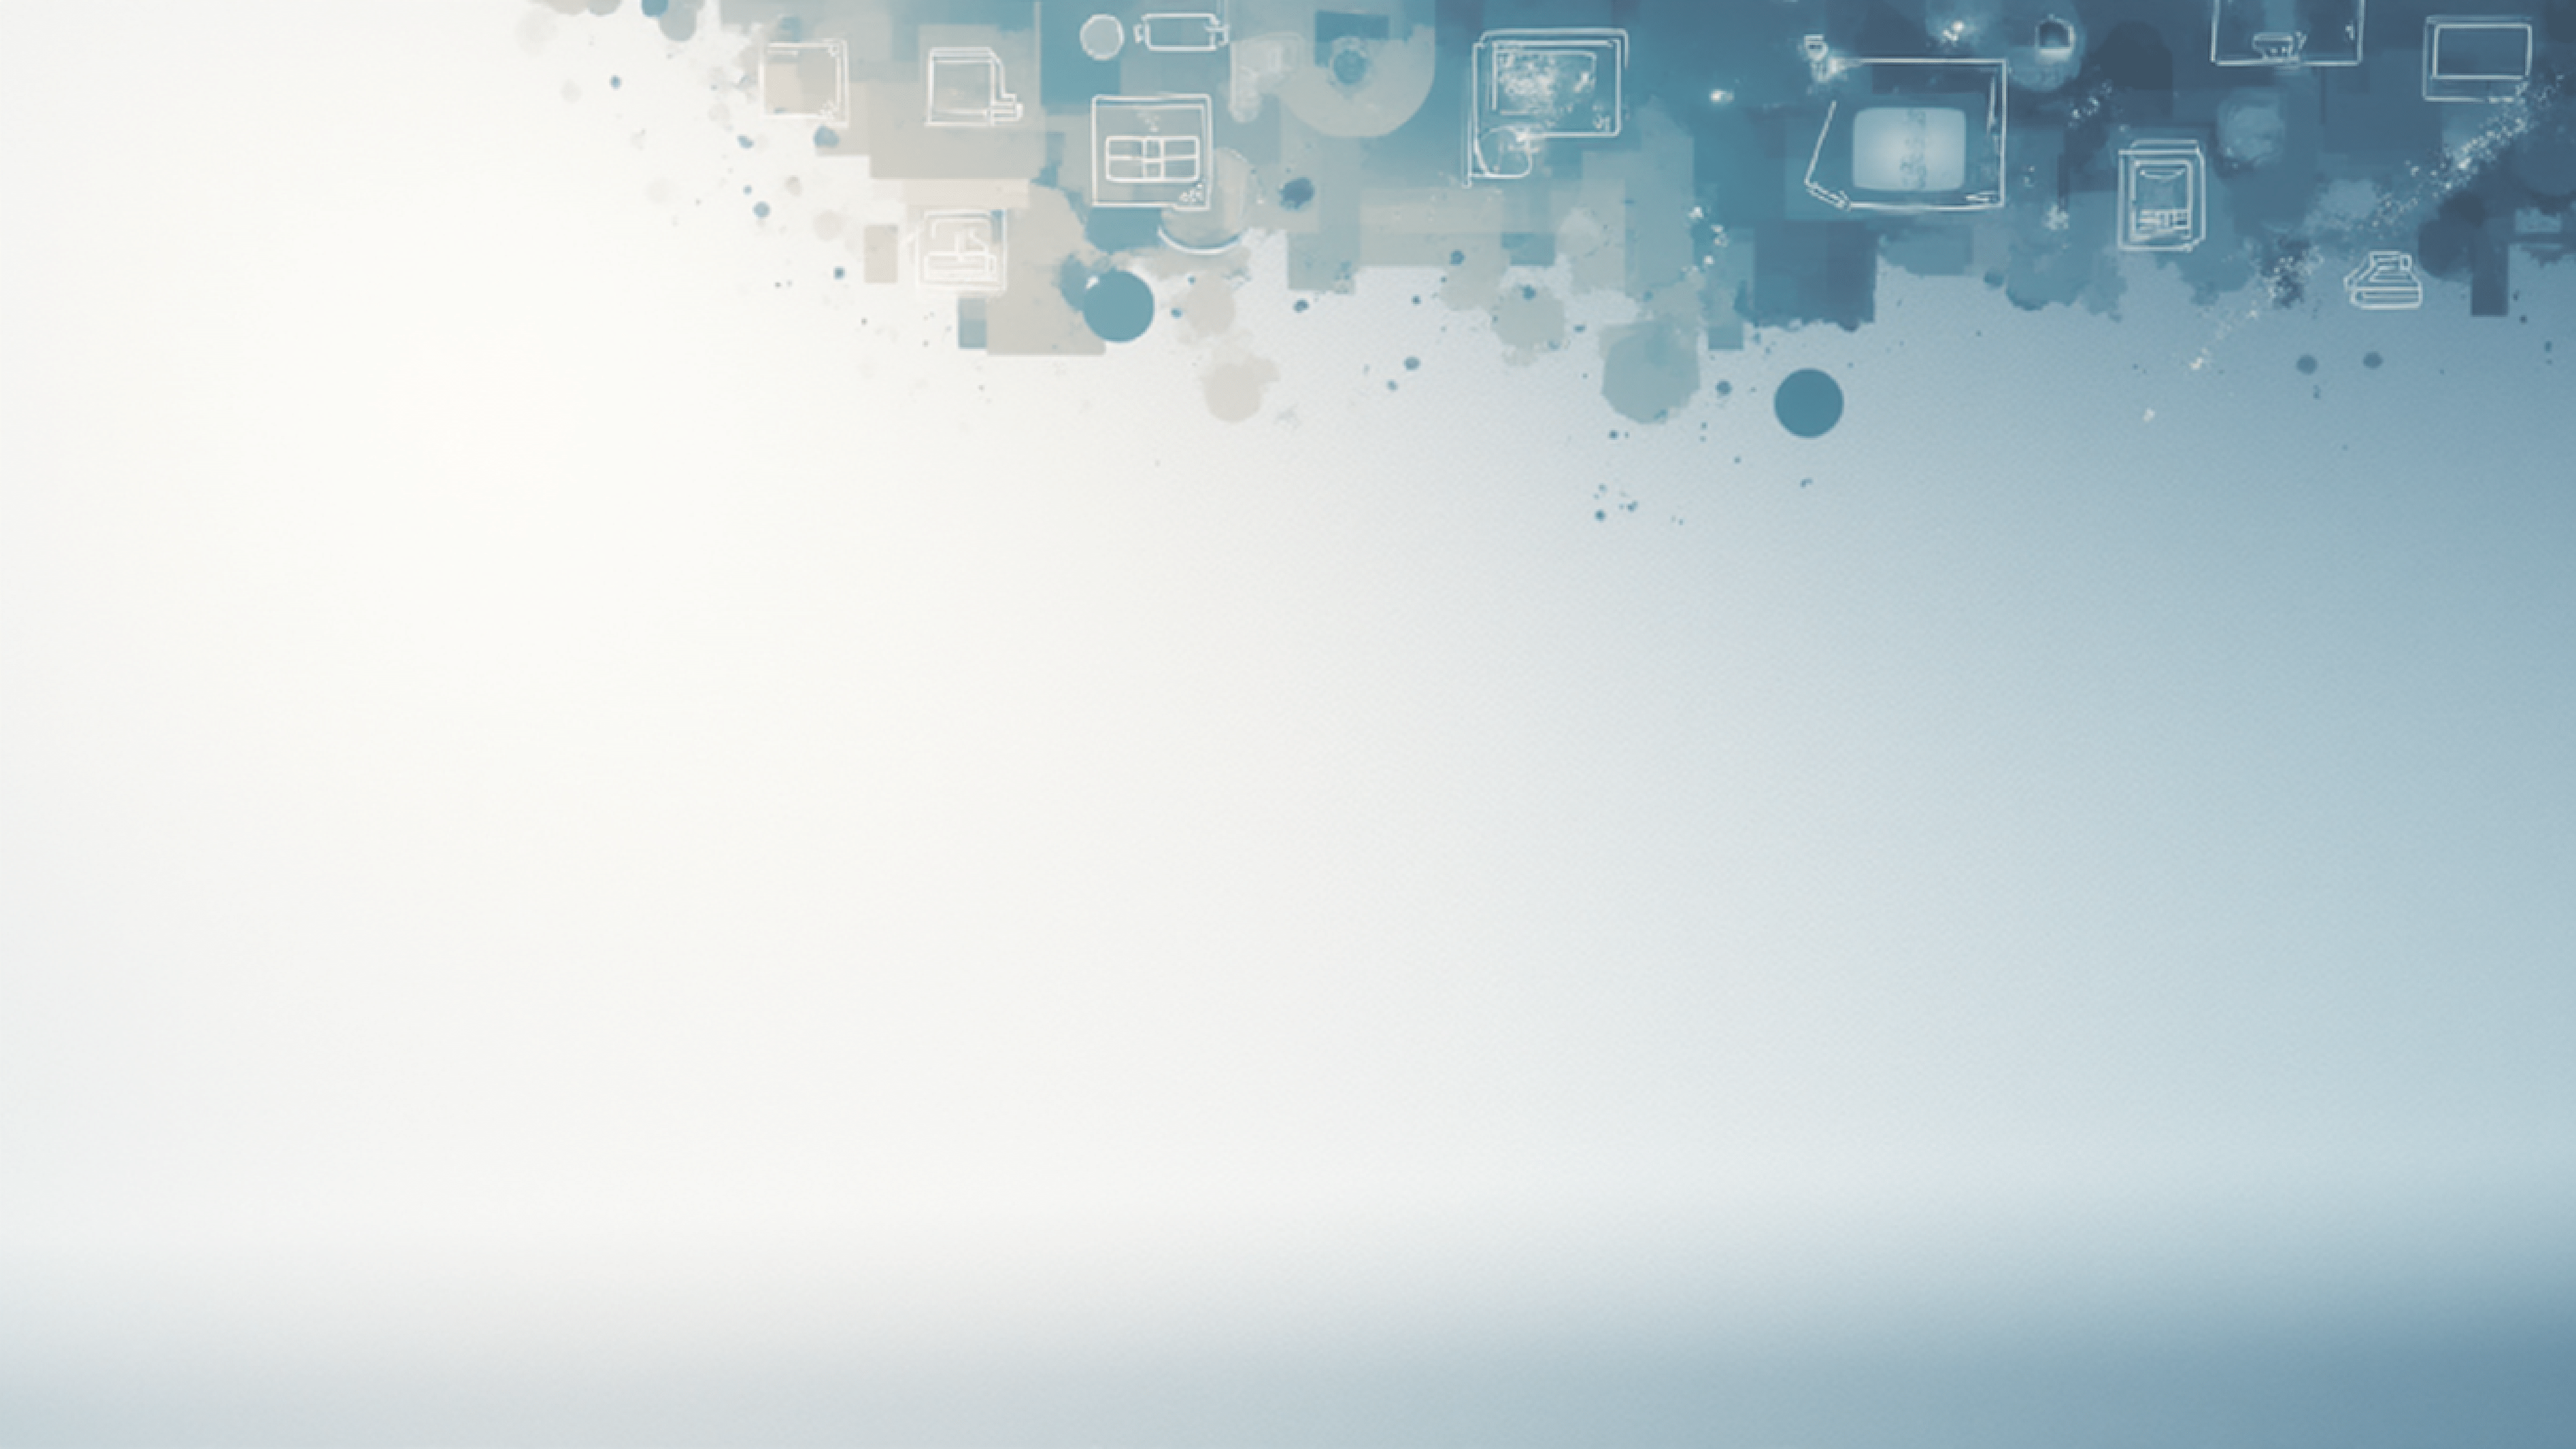
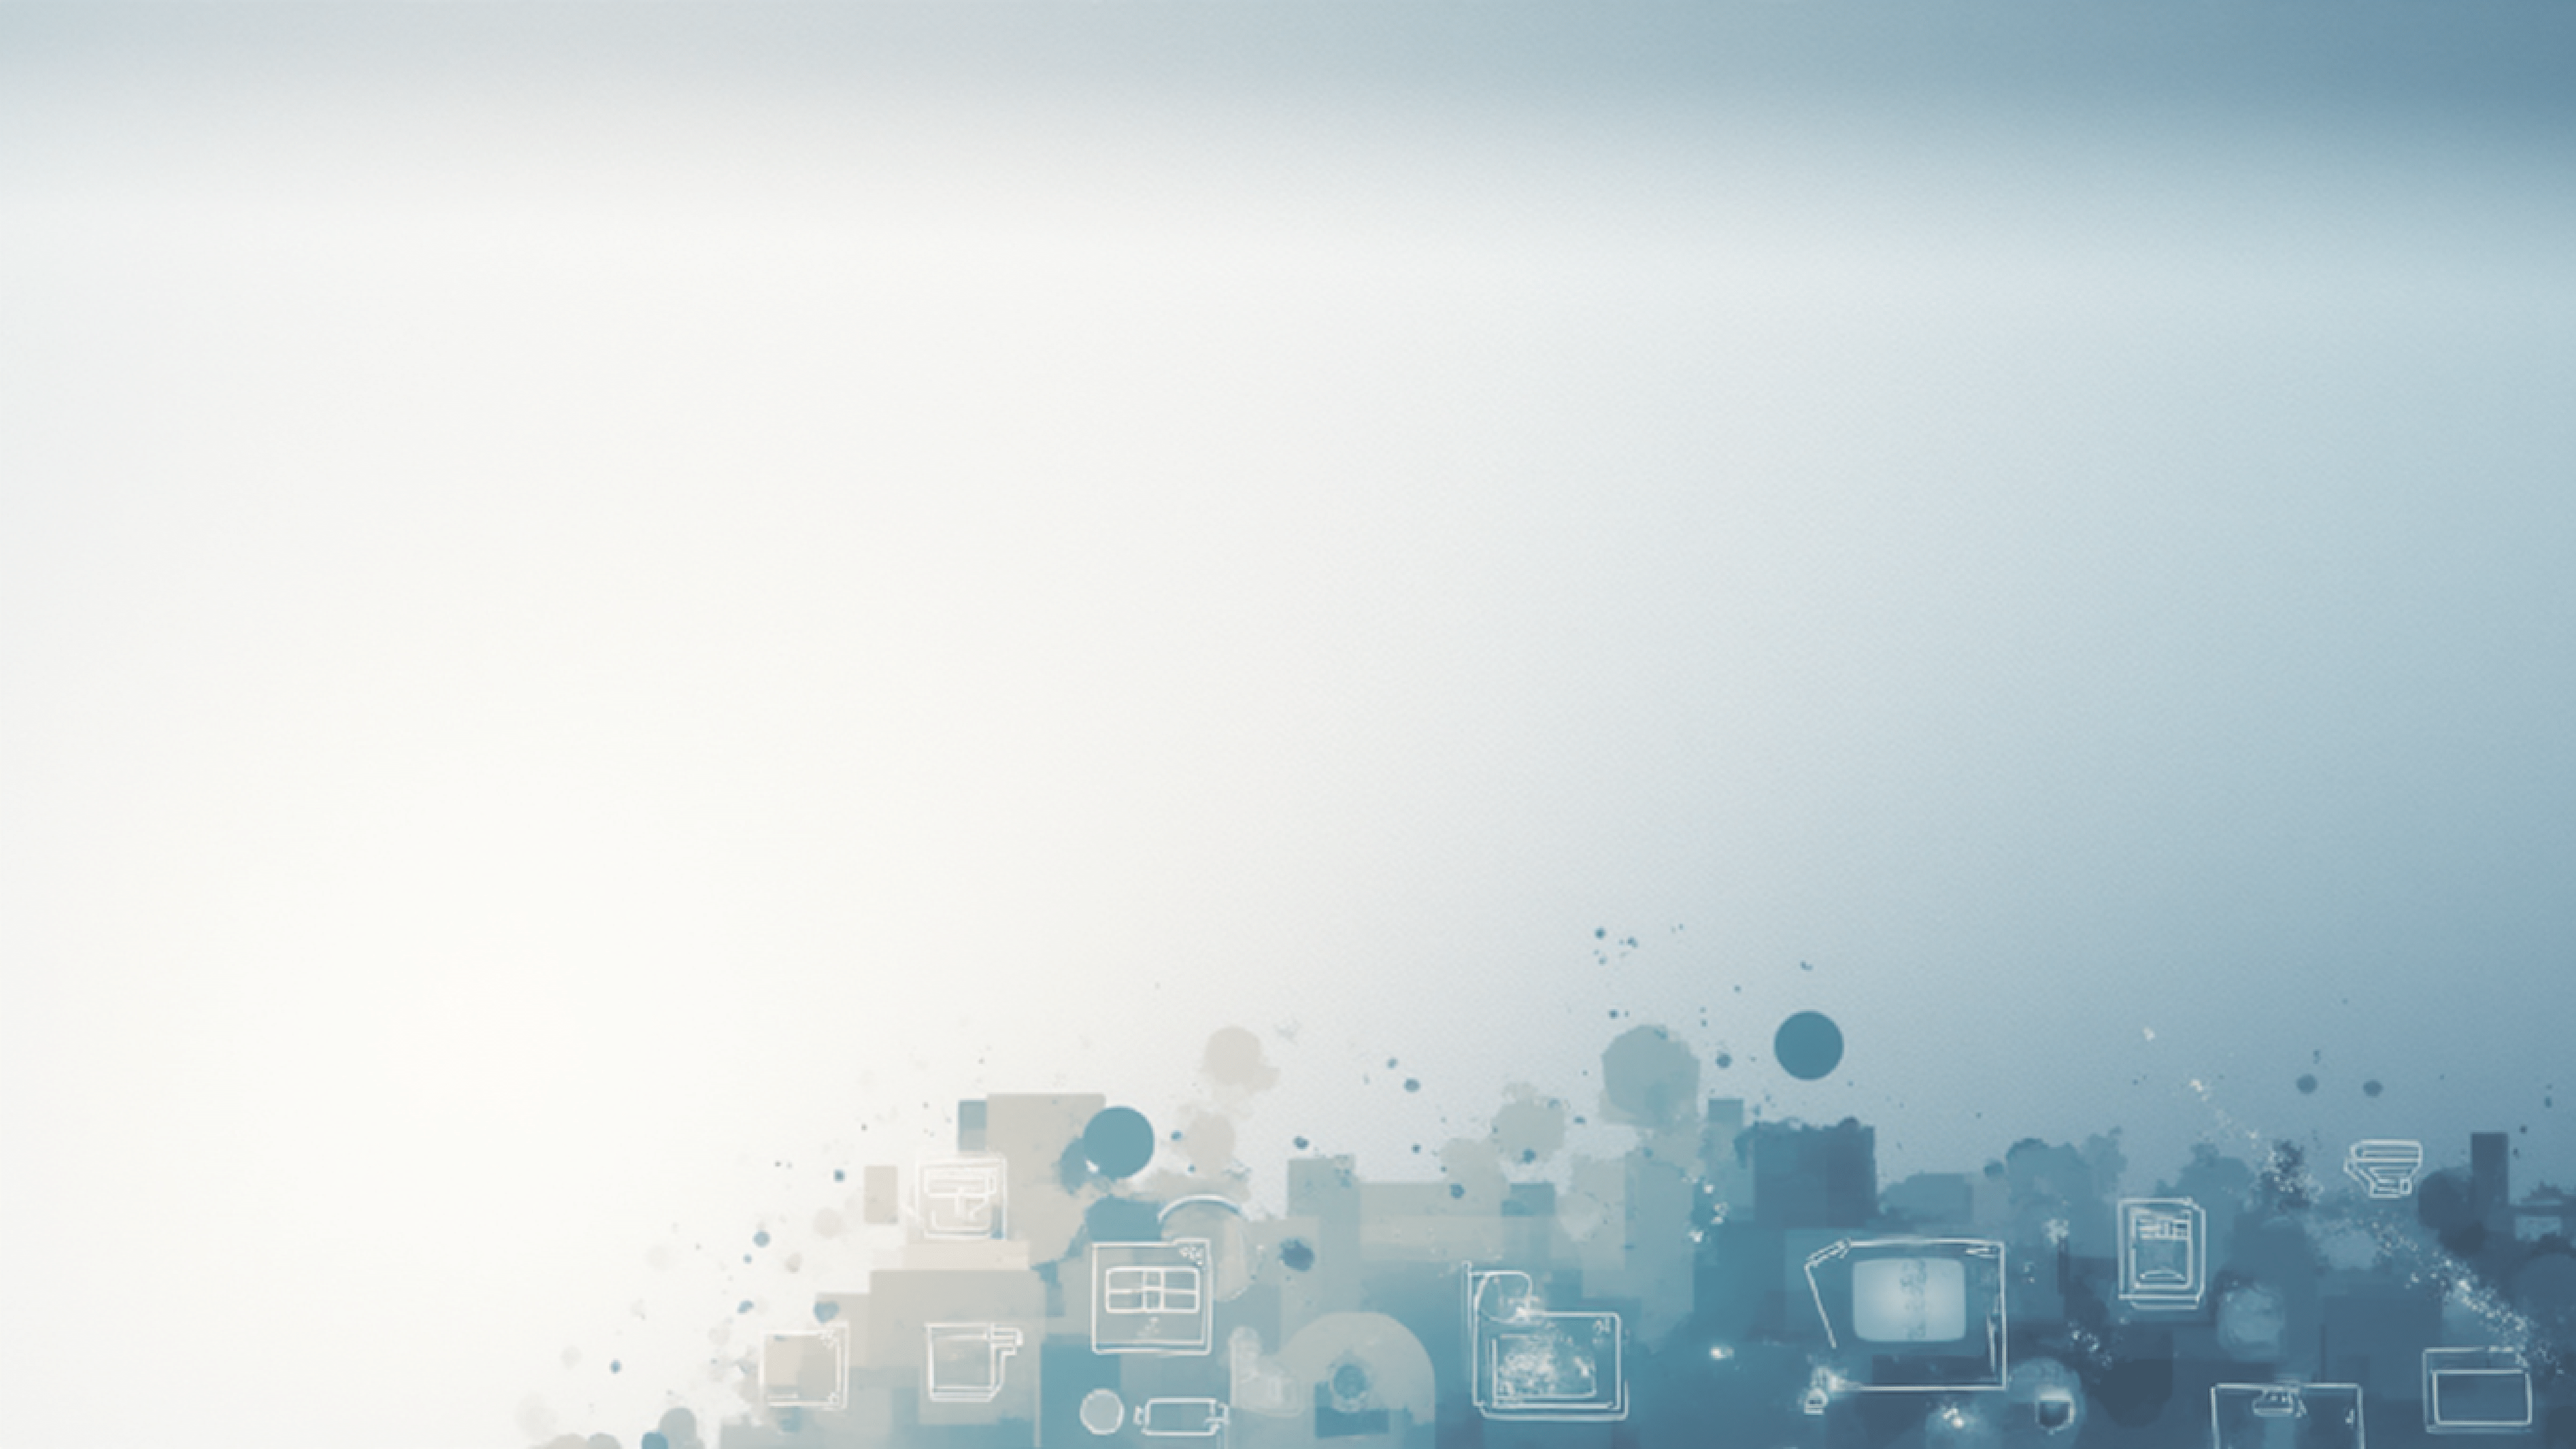
Created and applied background component for all sections, flipped experience.png vertically, created and applied title component for multiple sections

diff --git a/resume-app/app/ui/sections/about.tsx b/resume-app/app/ui/sections/about.tsx
@@ -1,33 +1,15 @@
-import Image from "next/image";
+import Background from '@/app/ui/background';
+import Title from '@/app/ui/title';
 
 export default function About({ background, title }: { background: string, title: string }) {
   return (
-    <section id="about" className="relative min-h-screen w-full grid grid-cols-3">
-      <Image
-        src={`/backgrounds/${background}`}
-        alt="Background image"
-        fill
-        unoptimized // ⛔ disables Next.js image optimization
-        style={{ objectFit: "cover" }}
-      />
-      <div className="pt-10 pl-10 col-span-3 z-10 text-black w-fit h-fit">
-        <h1
-          style={{ fontFamily: "var(--font-lastica)" }}
-          className="
-            relative inline-block leading-none m-0 p-0
-            text-4xl font-bold bg-gradient-to-r from-cyan-400 to-blue-800 bg-clip-text text-transparent"
+    <section id="about" className="relative min-h-screen w-full">
+      <Background src={background} />
+      <Title text={title} />
+      <div className="flex items-center justify-center min-h-screen">
+        <p className="p-5 z-10 text-left text-black md:text-lg text-xs whitespace-pre-line"
         >
-          {title}
-          <span
-            className="
-              absolute bottom-0 left-0 w-full h-[2px]
-              bg-gradient-to-r from-cyan-400 to-blue-800
-              rounded-full"
-          ></span>
-        </h1>
-      </div>
-      <p className="p-0 m-0 pl-[6%] pt-[1%] text-left col-span-3 z-10 text-black whitespace-pre-line md:text-lg text-xs">
-        {`Fullstack Software Engineer with over 3 years of experience developing scalable, data-driven solutions across
+          {`Fullstack Software Engineer with over 3 years of experience developing scalable, data-driven solutions across
           frontend and backend ecosystems. Proven track record enhancing operational efficiency and system reliability —
           including reducing backend deployment time by 75% and improving survey data capture by 50% across 5,000
           devices.
@@ -41,7 +23,8 @@ export default function About({ background, title }: { background: string, title
 
           Driven by collaboration, innovation, and technical excellence — always seeking to contribute to global-scale
           projects that create real-world impact.`}
-      </p>
+        </p>
+      </div>
     </section>
   )
 }

diff --git a/resume-app/app/ui/sections/experiences.tsx b/resume-app/app/ui/sections/experiences.tsx
@@ -1,22 +1,11 @@
-import Image from "next/image";
+import Background from '@/app/ui/background';
+import Title from '@/app/ui/title';
 
 export default function Experiences({ background, title, id }: { background: string, title: string, id: string }) {
   return (
-    <section id={id} className="relative min-h-screen w-full bg-blue flex items-center justify-center">
-      <Image
-        src={`/backgrounds/${background}`}
-        alt="Background image"
-        fill
-        unoptimized // ⛔ disables Next.js image optimization
-        style={{ objectFit: "cover" }}
-      />
-      <div className="inset-0 z-10 flex flex-col items-center justify-center text-black">
-        <h1
-          style={{ fontFamily: "var(--font-lastica)" }}
-          className="font-lastica text-4xl font-bold">
-          {title}
-        </h1>
-      </div>
+    <section id={id} className="relative min-h-screen w-full">
+      <Background src={background} />
+      <Title text={title} />
     </section>
   )
 }

diff --git a/resume-app/app/ui/sections/skills.tsx b/resume-app/app/ui/sections/skills.tsx
@@ -1,22 +1,11 @@
-import Image from "next/image";
+import Background from '@/app/ui/background';
+import Title from '@/app/ui/title';
 
 export default function Skills({ background }: { background: string }) {
   return (
-    <section id="skills" className="relative min-h-screen w-full bg-blue flex items-center justify-center">
-      <Image
-        src={`/backgrounds/${background}`}
-        alt="Background image"
-        fill
-        unoptimized // ⛔ disables Next.js image optimization
-        style={{ objectFit: "cover" }}
-      />
-      <div className="inset-0 z-10 flex flex-col items-center justify-center text-black">
-        <h1
-          style={{ fontFamily: "var(--font-lastica)" }}
-          className="font-lastica text-4xl font-bold">
-          Skills
-        </h1>
-      </div>
+    <section id="skills" className="relative min-h-screen w-full">
+      <Background src={background} />
+      <Title text="Skills" />
     </section>
   )
 }

diff --git a/resume-app/app/ui/title.tsx b/resume-app/app/ui/title.tsx
@@ -1,0 +1,20 @@
+export default function Title({ text }: { text: string }) {
+  return (
+    <div className="absolute pt-10 pl-[5%] z-10 text-black w-fit h-fit">
+        <h1
+          style={{ fontFamily: "var(--font-lastica)" }}
+          className="
+            relative inline-block leading-none m-0 p-0
+            md:text-4xl text-2xl font-bold bg-gradient-to-r from-cyan-400 to-blue-800 bg-clip-text text-transparent"
+        >
+          {text}
+          <span
+            className="
+              absolute bottom-0 left-0 w-full h-[2px]
+              bg-gradient-to-r from-cyan-400 to-blue-800
+              rounded-full"
+          ></span>
+        </h1>
+      </div>
+  )
+}

diff --git a/resume-app/app/ui/sections/main.tsx b/resume-app/app/ui/sections/main.tsx
@@ -1,16 +1,11 @@
 import Image from "next/image";
+import Background from '@/app/ui/background';
 
 export default function Main({ background, logo }: { background: string, logo: string }) {
 
   return (
     <section id="home" className="relative min-h-screen w-full bg-blue flex items-center justify-center">
-      <Image
-        src={`/backgrounds/${background}`}
-        alt="Background image"
-        fill
-        unoptimized
-        style={{ objectFit: "cover" }}
-      />
+      <Background src={background} />
       <div className="inset-0 z-10 flex flex-col items-center justify-center text-white">
         <h1
           style={{ fontFamily: "var(--font-lastica)" }}

diff --git a/resume-app/app/ui/background.tsx b/resume-app/app/ui/background.tsx
@@ -1,0 +1,13 @@
+import Image from "next/image";
+
+export default function Background({ src }: { src: String }) {
+  return (
+    <Image
+      src={`/backgrounds/${src}`}
+      alt="Background image"
+      fill
+      unoptimized
+      style={{ objectFit: "cover" }}
+    />
+  )
+}
